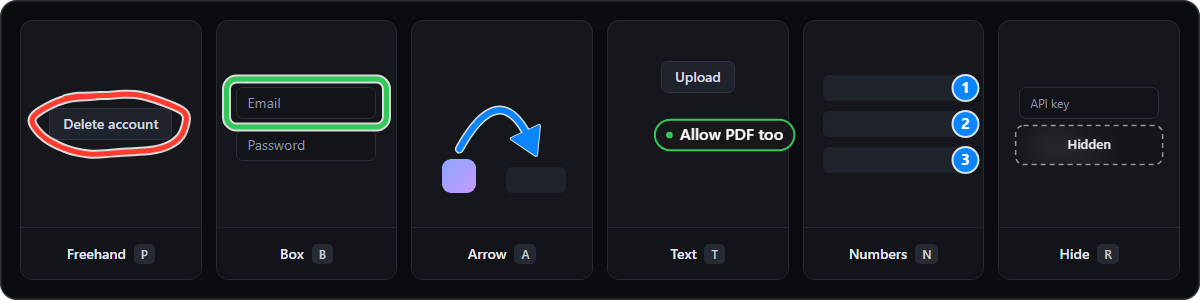
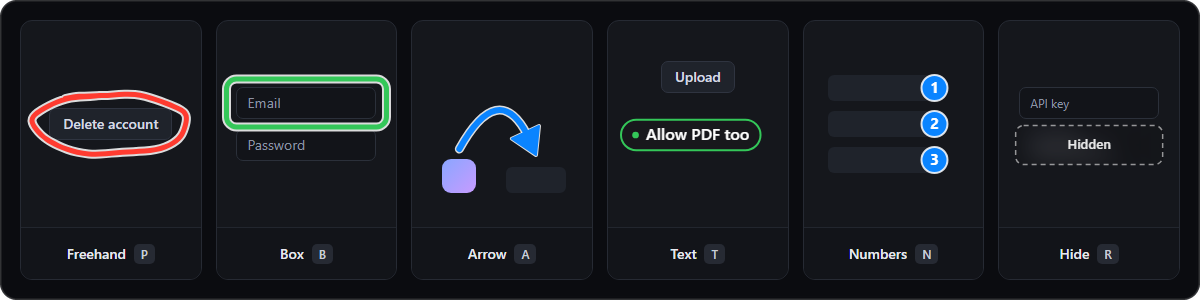
Issue templates, SECURITY.md, CHANGELOG.md, toolkit image fixes [skip ci]

Changed region(s): [[0.74, 0.24, 0.8325, 0.6], [0.5242, 0.39, 0.6783, 0.51]]

diff --git a/docs/mockups/tiles.html b/docs/mockups/tiles.html
@@ -19,6 +19,8 @@
   .input { width: 140px; height: 32px; border: 1px solid #2b303a; background: #121419; border-radius: 7px; padding: 0 10px; display: flex; align-items: center; color: #8b93a3; }
   .row { display: flex; flex-direction: column; gap: 10px; }
   .chip { width: 140px; height: 26px; border-radius: 6px; background: #1f232b; }
+  .nums { margin-right: 26px; }
+  .nums .chip { width: 104px; }
   .icon { width: 34px; height: 34px; border-radius: 9px; background: linear-gradient(135deg, #8aa6ff, #c79bff); }
 </style>
 </head>
@@ -28,7 +30,7 @@
   <div class="card"><div class="ui"><div class="row"><div class="input">Email</div><div class="input">Password</div></div></div><div class="label">Box <kbd>B</kbd></div></div>
   <div class="card"><div class="ui" style="justify-content: space-between; padding: 0 26px 0 30px; align-items: flex-end; padding-bottom: 34px;"><div class="icon"></div><div class="chip" style="width: 60px;"></div></div><div class="label">Arrow <kbd>A</kbd></div></div>
   <div class="card"><div class="ui" style="align-items: flex-start; padding-top: 40px;"><span class="btn">Upload</span></div><div class="label">Text <kbd>T</kbd></div></div>
-  <div class="card"><div class="ui"><div class="row"><div class="chip"></div><div class="chip"></div><div class="chip"></div></div></div><div class="label">Numbers <kbd>N</kbd></div></div>
+  <div class="card"><div class="ui"><div class="row nums"><div class="chip"></div><div class="chip"></div><div class="chip"></div></div></div><div class="label">Numbers <kbd>N</kbd></div></div>
   <div class="card"><div class="ui"><div class="row"><div class="input" style="width: 140px; font-size: 12px;">API key</div><div class="input secret" style="width: 140px; color: #d5d9e2; font: 12px Consolas, monospace;">sk-live-4f9a2c8e1b7d</div></div></div><div class="label">Hide <kbd>R</kbd></div></div>
 </div>
 </body>

diff --git a/docs/mockups/tauri-stub.js b/docs/mockups/tauri-stub.js
@@ -4,7 +4,7 @@ window.__TAURI__ = {
   core: {
     invoke: async (cmd) => cmd === 'get_settings' ? {
       hotkey: 'F6', autostart: true, keepCaptures: 10, maxKeepCaptures: 100,
-      neverSave: false, autoUpdate: true, version: '1.0.0', requestSound: true, captureMonitor: '',
+      neverSave: false, autoUpdate: true, version: '1.1.4', requestSound: true, captureMonitor: '',
       monitors: [{ id: 'DISPLAY1', label: 'Display 1 · 2560 × 1440 (main)' }, { id: 'DISPLAY2', label: 'Display 2 · 1920 × 1080' }],
       tools: [
         { id: 'claude', name: 'Claude', installed: true, connected: true, found: 'Claude Code and Claude Desktop', setup: '/scribble command and MCP server' },

diff --git a/app/ui/overlay.html b/app/ui/overlay.html
@@ -332,7 +332,7 @@ function frames(n) {
   });
 }
 
-// Restarts the CSS intro animations (shutter, ring, frame, toolbar).
+// Restarts the CSS intro animations (light sweep, frame, toolbar).
 function playIntro() {
   // Toolbar items pop in one after another.
   [...toolbar.children].filter((c) => c.offsetParent).forEach((c, i) => c.style.setProperty('--i', i));

diff --git a/docs/mockups/render.py b/docs/mockups/render.py
@@ -296,6 +296,7 @@ def tools(browser):
     icon = scene.locator(".icon").bounding_box()
     chips = [c.bounding_box() for c in scene.locator(".card:nth-child(5) .chip").all()]
     secret = scene.locator(".secret").bounding_box()
+    text_card = scene.locator(".card:nth-child(4)").bounding_box()
     target = scene.locator(".card:nth-child(3) .chip").bounding_box()
     bg = scene.screenshot()
     scene.close()
@@ -312,7 +313,7 @@ def tools(browser):
     keys(page, None, "3", "a")
     drag(page, arc((icon["x"] + icon["width"] / 2, icon["y"] - 10), (target["x"] + target["width"] / 2, target["y"] - 12), -46))
     keys(page, None, "1", "t")
-    page.mouse.click(upload["l"] - 6, upload["b"] + 42)
+    page.mouse.click(text_card["x"] + 14, upload["b"] + 42)
     page.keyboard.type("Allow PDF too")
     keys(page, None, "Enter", "3", "n")
     for c in chips:

diff --git a/app/src/mcp.rs b/app/src/mcp.rs
@@ -136,7 +136,8 @@ fn tool_definitions() -> Value {
         {
             "name": "get_latest_capture",
             "description": "Get the user's latest Scribble2Fix screen markup: a screenshot they drew on \
-                (green = add, red = remove, blue = change/move), the same area without the drawings, \
+                (green = add, red = remove, blue = change/move; solid black areas labeled \"Hidden\" \
+                were hidden on purpose and must be left alone), the same area without the drawings, \
                 and the app/window it was taken from. Use it when the user mentions their capture, \
                 scribble, drawing, markup, circle, or screenshot.",
             "inputSchema": { "type": "object", "properties": {} },

diff --git a/CHANGELOG.md b/CHANGELOG.md
@@ -1,0 +1,65 @@
+# Changelog
+
+All notable changes to Scribble2Fix. Downloads for every version are on the [releases page](https://github.com/cweeperde/scribble2fix/releases).
+
+## 1.1.4 (2026-11-20)
+
+### Smoother hotkey
+
+Pressing the hotkey and closing the overlay no longer flickers: the frozen screen appears in one go, exactly like the real one, and disappears without a ghost image. The camera flash and zoom are gone.
+
+### Hide private info
+
+New tool **Hide** (`R`, in the folded part of the toolbar): drag over a password, an email or anything else the AI shouldn't see. While you draw it's blurred; in both images that are sent it's solid black, so nothing of the original is left to recover. The AI is told these areas are hidden on purpose and not to go looking for what was there.
+
+### Also
+
+- Taking a screenshot of your scribble with Win+Shift+S or ⌘⇧4 no longer refreezes the screen. Switching desktops still does.
+- "Freeze when I start drawing" is gone: switching to another desktop or app before drawing already freezes the new screen.
+- F6 is the default hotkey on every system (on a MacBook: Fn + F6). Existing settings stay as they are.
+- Settings are split into tabs: General, AI tools, Captures, About. "Show welcome again" is now **Run setup again**.
+- The welcome screen lets you pick the toolbar style and whether the hotkey pauses in fullscreen apps.
+- The small shortcut letters sit neatly inside the toolbar buttons.
+
+## 1.1.3 (2026-11-20)
+
+- **Freeze when I start drawing** (Settings, off by default): the hotkey shows the frame and toolbar over the live screen, and the first click freezes the monitor you click on. Replaced in 1.1.4.
+- Switching to another virtual desktop or Space while the screen is frozen, before drawing anything, freezes the new one instead of keeping the old picture up. Also from and to desktops without windows, and with Alt+Tab / ⌘+Tab.
+- Windows: the "Copied" message and the AI request card show up on the desktop you're on, not only on the first one.
+
+## 1.1.2 (2026-11-20)
+
+### macOS
+
+- The frozen screen and the frame cover the menu bar and the Dock instead of sliding under them.
+- On MacBooks with a notch, the toolbar sits below it and the frame runs around the notch and the rounded screen corners.
+- Scribble2Fix shows up on whichever desktop (Space) you're on, also over fullscreen apps.
+- When you finish or cancel, the focus goes back to the app you were in, so ⌘V pastes right there.
+- New installs used ⌘⇧2 as the hotkey (back to F6 in 1.1.4).
+- Settings and the welcome window open in front of other apps.
+
+### All platforms
+
+- A capture names the app you actually drew on (the window under your marks), not just the app in front.
+- The "Copied" message sits above the taskbar or Dock.
+
+## 1.1.1 (2026-11-20)
+
+- New, uniform icons for the AI tools.
+- The Windows installer no longer creates a desktop shortcut by default.
+- [Connect by hand](docs/manual-setup.md) has a copy-and-paste prompt that lets your AI agent set up Scribble2Fix in any MCP client.
+
+## 1.1.0 (2026-11-20)
+
+- New AI tools: GitHub Copilot, Cursor, Gemini CLI & Antigravity, OpenCode and Lumo. Claude Code and Claude Desktop share one switch.
+- Connecting sets up everything a tool needs: the MCP server, the `/scribble` command or skill, and permission to use it without asking where the tool allows that.
+- AI requests: when an AI asks for a scribble, a card drops in at the top of the screen with **Draw now** / **Not now**, a countdown, a glowing frame and an optional chime.
+- New intro, send animation and "Copied" message.
+- Settings: pick the monitor to capture and turn the request sound on or off. The welcome screen can connect all found tools at once.
+- Connected tools get more details with each capture (system, monitor, drawing time, the AI's request).
+- AI models without image support are told so and work from the marks as text.
+- [Connect by hand](docs/manual-setup.md): setup for any MCP client.
+
+## 1.0.0 (2026-11-13)
+
+First release. Press a hotkey, the screen freezes, mark what should change in green (add), red (remove) or blue (change or move), press Enter. The annotated screenshot is copied for any chat, and connected AI tools (Claude Code, Claude Desktop, Codex) can read it through MCP, including every mark as text.

diff --git a/SECURITY.md b/SECURITY.md
@@ -1,0 +1,22 @@
+# Security
+
+Scribble2Fix takes screenshots of your screen, so it should never leak what's on it. If you find a way it does, please tell me privately first.
+
+## Reporting a problem
+
+Use **[Report a vulnerability](https://github.com/cweeperde/scribble2fix/security/advisories/new)** (the repository's Security tab). Only the maintainers see the report. Please don't open a public issue for it.
+
+Helpful to include: the Scribble2Fix version (Settings → About), your operating system, the steps to reproduce, and what you expected instead. I'll answer as soon as I can and keep you posted until it's fixed.
+
+## What counts
+
+For example:
+
+- A hidden area (the `R` tool) that can still be seen or recovered in a saved, copied or sent image, or in the text the AI gets.
+- Captures, settings or the clipboard reaching anything other than your own computer, the AI tools you connected, or the GitHub update check.
+- The MCP server giving an AI tool more than your saved captures and scribble requests, such as other files on your computer.
+- Updates that could be replaced by someone else (the update check, its signature or the installers).
+
+## Supported versions
+
+Fixes go into the latest release. Automatic updates are on by default; you can also update under Settings → General → Check for updates.

diff --git a/README.md b/README.md
@@ -333,7 +333,9 @@ Personal and other noncommercial use is free. For use at work or in a company, [
 
 ## Feedback
 
-Found a bug or have an idea? [Open an issue](https://github.com/cweeperde/scribble2fix/issues/new/choose). If Scribble2Fix saves you time, a ⭐ helps others find it.
+Found a bug or have an idea? [Open an issue](https://github.com/cweeperde/scribble2fix/issues/new/choose). Something that could expose private data? Please [report it privately](SECURITY.md). What changed in each version: [CHANGELOG.md](CHANGELOG.md).
+
+If Scribble2Fix saves you time, a ⭐ helps others find it.
 
 ## License
 
